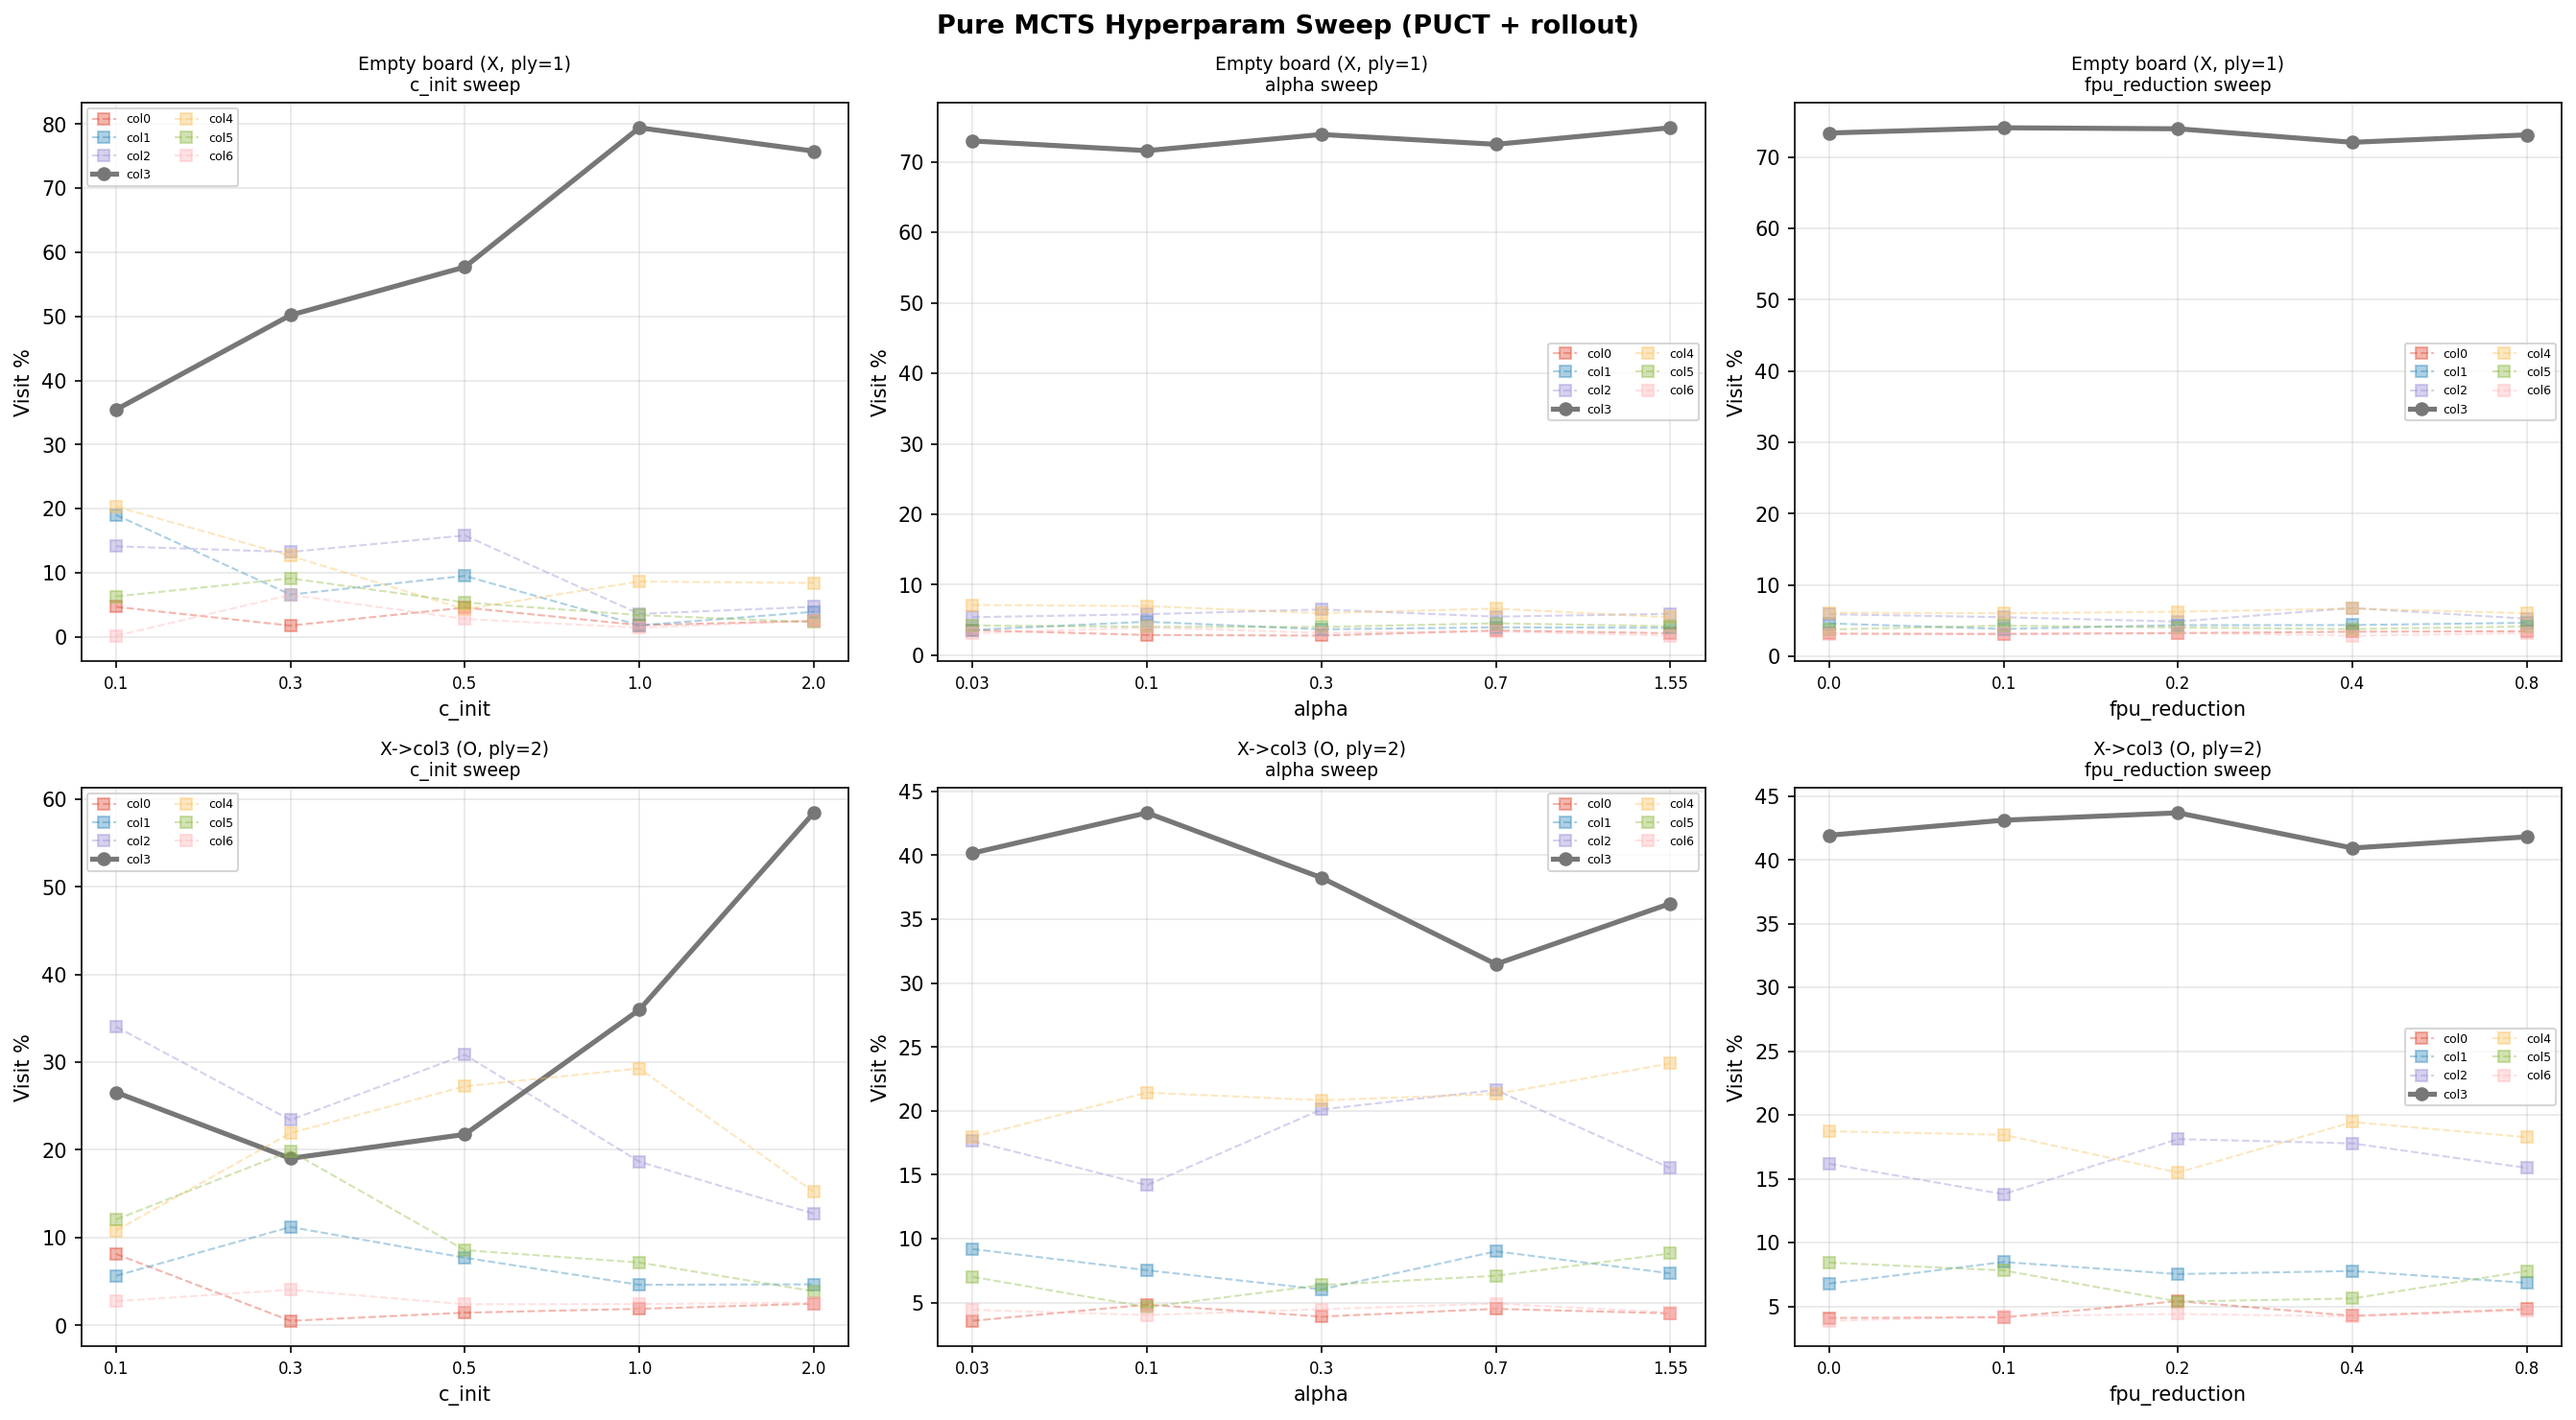
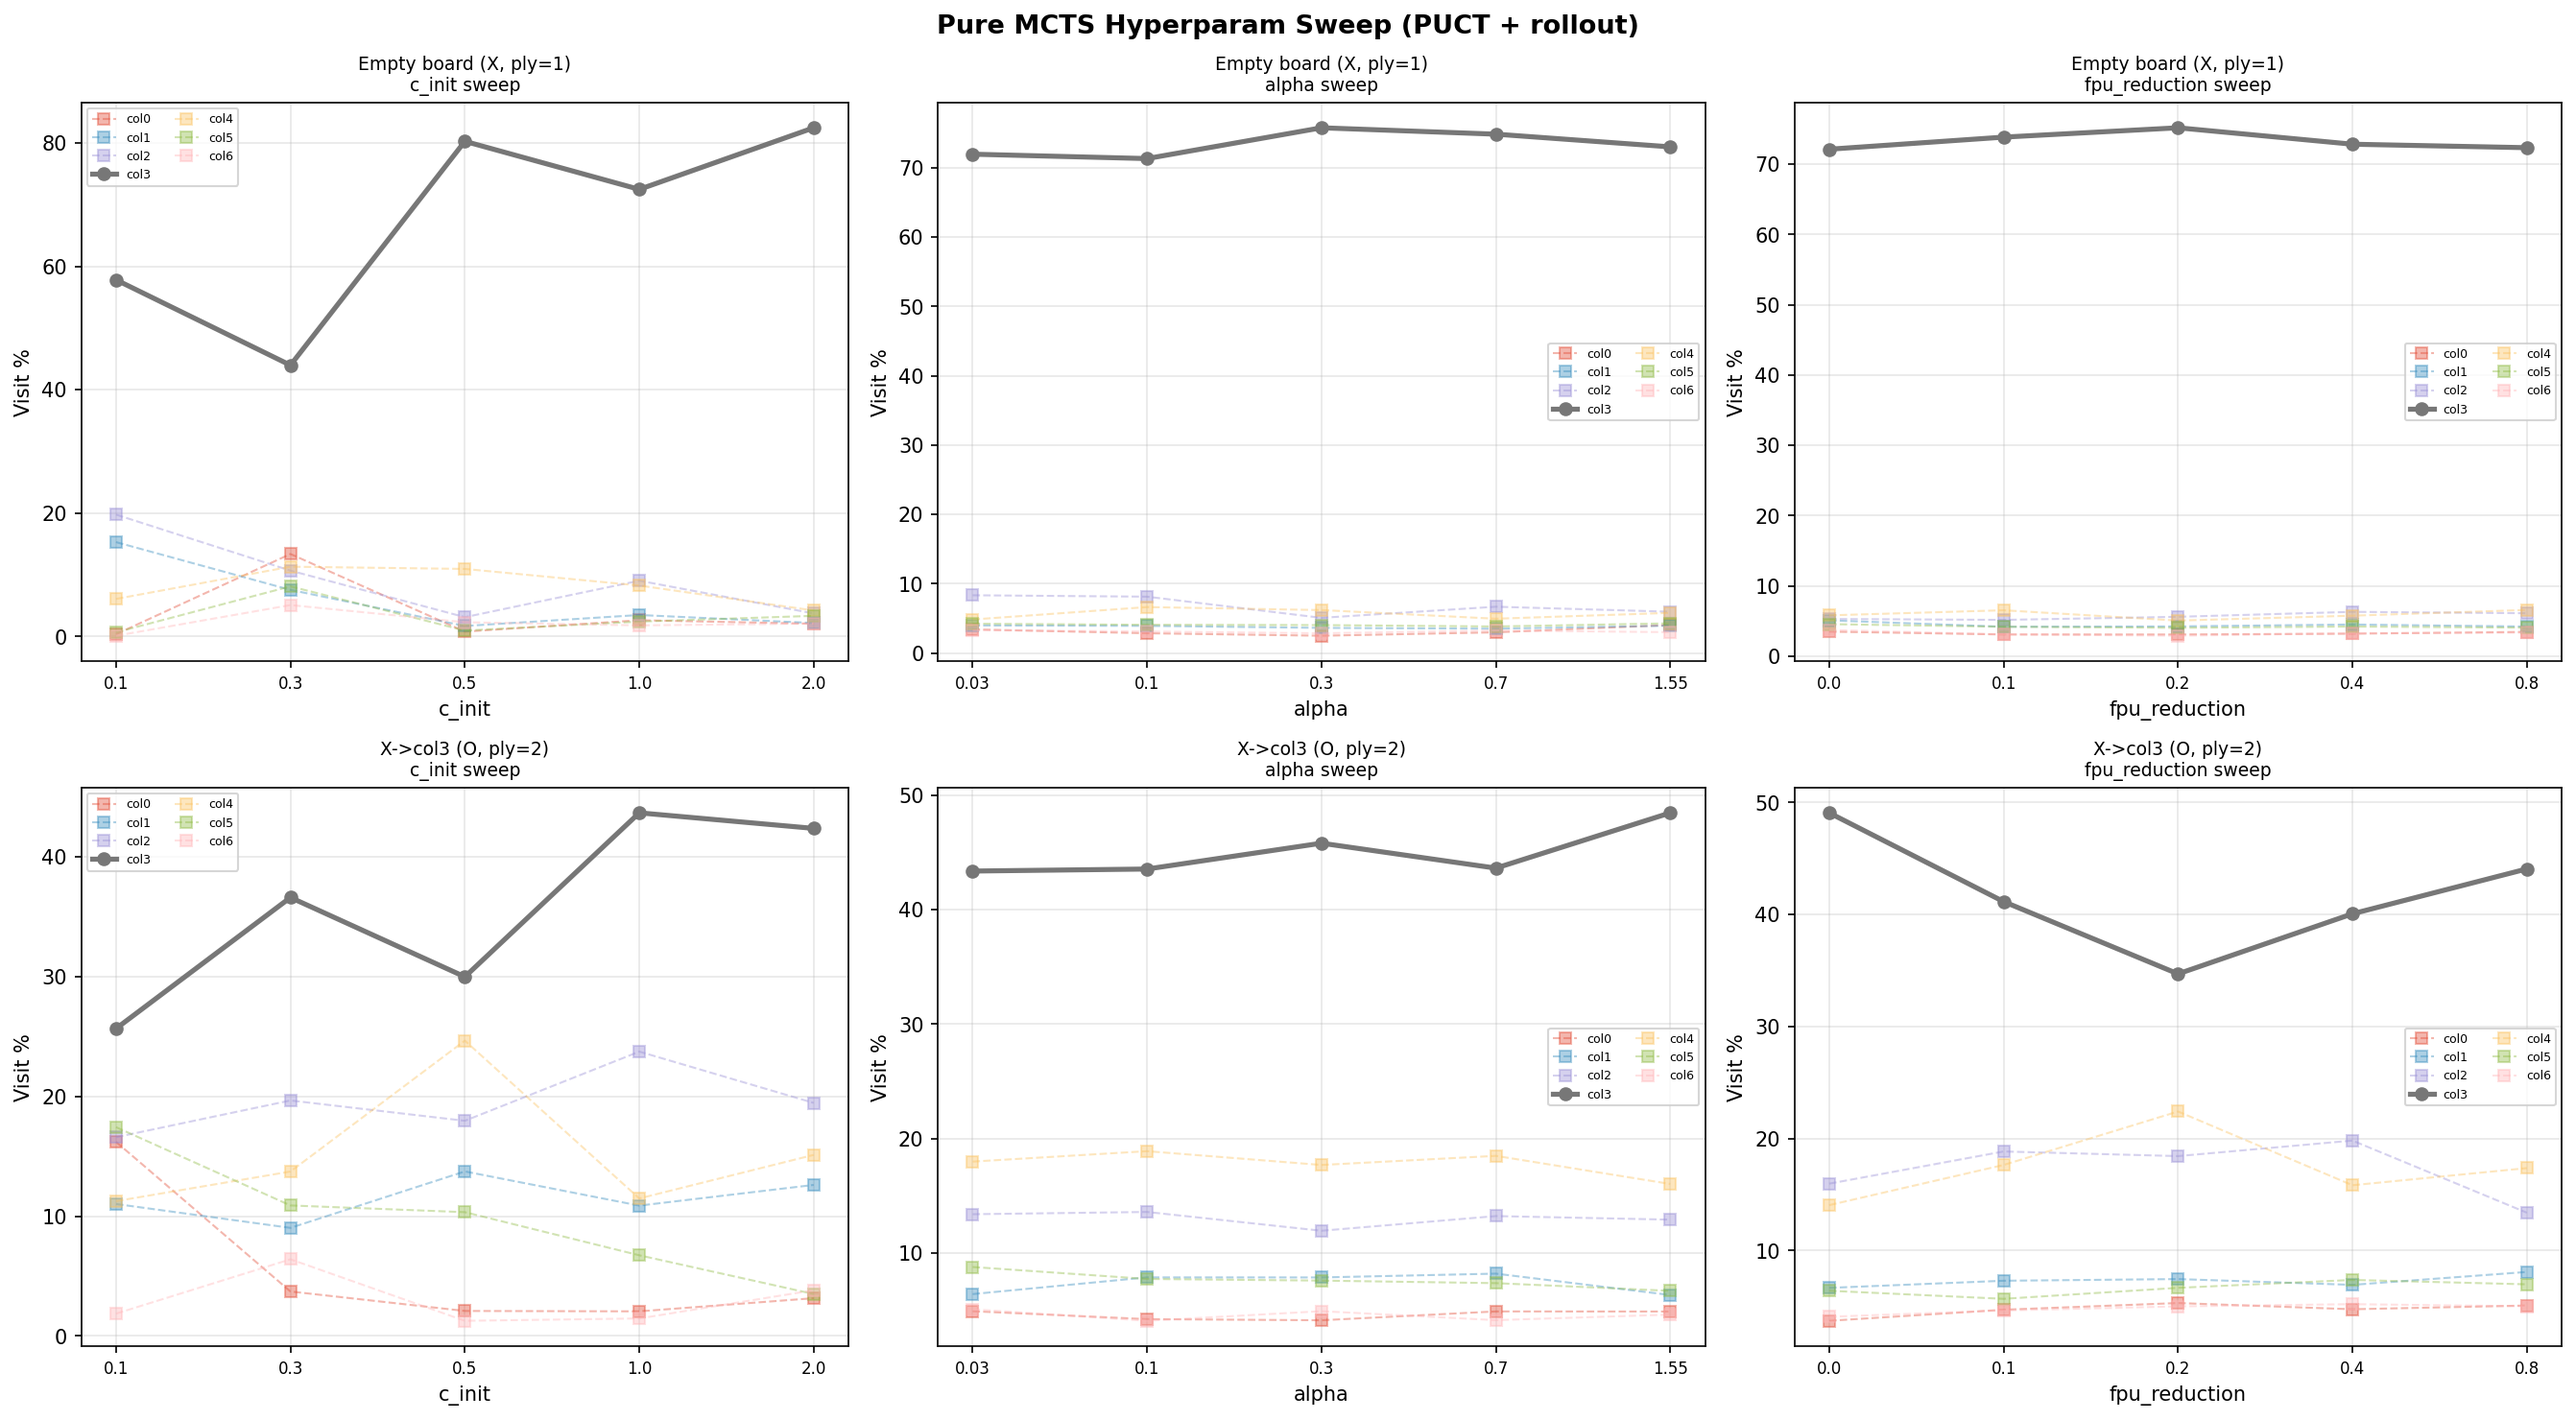
Update

diff --git a/docs/o-policy-convergence-diagnosis.md b/docs/o-policy-convergence-diagnosis.md
@@ -109,6 +109,103 @@ Dirichlet noise 实际上**帮助了** col3（从 24.1% 提升到 25.9%），因
 - n=10,000 时 col4 反而排第一
 - 与 X 的 col3 信号（33.8%，遥遥领先）形成鲜明对比
 
+### 6. 纯 MCTS c_init 扫描（UCT + random rollout）
+
+探索常数 c_init 对纯 MCTS 能否识别 col3 的影响。c_init 越小 = 越偏重 exploitation。
+
+#### X 空棋盘 — col3 visit%
+
+| c_init | n=1,000 | n=10,000 | n=50,000 |
+|---|---|---|---|
+| **1** | **52.4%** | **42.6%** | **55.6%** |
+| 2 | 22.0% | 39.1% | 45.3% |
+| 4 | 16.5% | 29.6% | 34.0% |
+| 8 | 15.4% | 21.4% | 26.2% |
+| 16 | 15.7% | 17.9% | 20.9% |
+
+X 的 col3 信号强，所有 c_init 都能识别，但低 c_init 收敛更快。
+
+#### O 局面 — col3 visit%
+
+| c_init | n=1,000 | n=10,000 | n=50,000 |
+|---|---|---|---|
+| **1** | 17.1% | **29.8%** | **42.9%** |
+| 2 | 15.3% | 20.3% | 25.5% |
+| 4 | 14.6% | 16.2% | 22.2% |
+| 8 | 14.8% | 16.1% | 17.8% |
+| 16 | 14.2% | 15.7% | 16.9% |
+
+**关键发现**：
+- **c_init=1, n=50,000 时 O-col3 达到 42.9%**，遥遥领先 col2=13.7%
+- 低 c_init（少探索、重 exploitation）反而更快收敛到正确答案——弱信号需要深度搜索来放大
+- 高 c_init（c=16）使信号几乎消失（16.9%，接近均匀 14.3%）
+- 纯 MCTS 在 c=1 + n=50,000 可以明确识别 O-col3，完全独立于 NN
+
+### 7. AZ MCTS 超参扫描（带 NN，n=100）
+
+固定其他参数为生产值，单独扫描 c_init / alpha / fpu_reduction，观察对 O 局面 col3 visit% 的影响。
+
+#### c_init sweep（alpha=0.3, fpu=0.2）
+
+| c_init | col3 visit% | -Q |
+|---|---|---|
+| 0.1 | **40.4%** | -0.794 |
+| 0.3 | 30.1% | -0.716 |
+| 0.5 | 28.8% | -0.699 |
+| 1.0 (生产) | 26.1% | -0.678 |
+| 2.0 | 26.7% | -0.681 |
+
+c_init=0.1 时 col3 达到 40.4%，但完全是靠 prior（26.2%）被放大，**Q 值方向仍然是错的**（-Q 为负）。
+
+#### alpha sweep（c_init=1.0, fpu=0.2）
+
+| alpha | col3 visit% |
+|---|---|
+| 0.03 | 28.0% |
+| 0.1 | 26.5% |
+| 0.3 (生产) | 27.1% |
+| 0.7 | 27.8% |
+| 1.55 | 26.7% |
+
+**alpha 几乎没有影响**，col3 在 26-28% 之间浮动。Dirichlet noise 的强度不是瓶颈。
+
+#### fpu_reduction sweep（c_init=1.0, alpha=0.3）
+
+| fpu | col3 visit% |
+|---|---|
+| 0.0 | 26.6% |
+| 0.1 | 26.1% |
+| 0.2 (生产) | 27.3% |
+| 0.4 | 29.3% |
+| 0.8 | 27.6% |
+
+**FPU 也几乎没有影响**，col3 在 26-29% 之间浮动。
+
+#### 超参扫描小结
+
+- **c_init 是唯一有显著影响的参数**，但它只是改变 prior 与 Q 的相对权重，不修正 Q 本身
+- **alpha 和 FPU 无显著影响**
+- **所有配置下 Q 值方向始终是错的**（O-col3 的 -Q 始终为负）
+
+### 8. 纯 MCTS 超参扫描（PUCT + uniform prior + random rollout）
+
+使用 MCTS_AZ 框架但用 random rollout 代替 NN，测试 PUCT 选择 + Dirichlet noise + FPU 在无 NN 偏差时的表现。
+
+（部分结果，n=5000, 20 runs）
+
+#### X 空棋盘
+
+| 参数 | 值 | col3 visit% |
+|---|---|---|
+| c_init=0.1 | (alpha=None, fpu=0) | 35.4% |
+| c_init=0.5 | | 57.7% |
+| c_init=1.0 | | **79.4%** |
+| c_init=2.0 | | 75.8% |
+| alpha=0.03 | (c_init=4, fpu=0) | 73.0% |
+| alpha=1.55 | | 74.8% |
+
+X 的 col3 在所有配置下都非常强势，alpha 对 X 几乎没有影响。
+
 ## 根因分析
 
 ### 自强化 Bootstrap 陷阱
@@ -132,6 +229,15 @@ NN 进一步强化 "O-col3 差" 的评估
 1. **X 的 col3 信号强**：纯 MCTS n=5000 就能看出 col3 遥遥领先（23.2%），AlphaZero 在 n=100 足够学到
 2. **O 的 col3 信号极弱**：纯 MCTS n=50,000 才勉强分出（19.5% vs 19.0%），n=100 根本看不到
 3. **NN 放大了错误方向**：本来只是"分不出"，但 NN 学到了相反方向，然后 MCTS 越搜索越偏
+
+### 为什么调超参解决不了？
+
+**完整的超参扫描**（Section 6-8）证明：
+
+- **纯 MCTS 的 c_init**：低 c_init（更多 exploitation）让纯 MCTS 更快收敛到 col3，但 O 的信号仍需 n=50,000 才清晰。AZ MCTS 中 c_init 只改变 prior 与 Q 的权重，不修正 Q 方向
+- **Dirichlet alpha**：从 0.03 到 1.55，col3 visit% 在 26-28% 之间浮动，几乎无影响
+- **FPU reduction**：从 0.0 到 0.8，col3 visit% 在 26-29% 之间浮动，几乎无影响
+- **核心矛盾**：这些参数都只影响**搜索过程中的访问分布**，但无法修正 NN value head 学到的**错误 Q 值方向**。即使 col3 被访问更多次，NN 仍然给出负面评价，Q 值仍然指向错误方向
 
 ### 为什么 lambda_s 解决不了？
 
@@ -175,6 +281,9 @@ lambda_s 公式：`value = (1-λ) × value_base - λ × sign(value_base) × step
 | `noise_ablation.png` | Dirichlet noise 消融对比 |
 | `multi_ply.png` | 多步深入分析（ply 1-4） |
 | `pure_mcts_comparison.png` | AlphaZero MCTS vs 纯 MCTS 对比 |
+| `pure_mcts_c_sweep.png` | 纯 MCTS c_init × n_playout 热力图 |
+| `az_hp_sweep.png` | AZ MCTS 超参扫描（c_init / alpha / fpu） |
+| `pure_mcts_hp_sweep.png` | 纯 MCTS 超参扫描（PUCT + rollout） |
 
 ## 复现
 
@@ -185,9 +294,13 @@ python tools/diagnose_mcts.py
 # 快速模式（约 2 分钟）
 python tools/diagnose_mcts.py --quick
 
-# 仅纯 MCTS 对比
+# 仅纯 MCTS c_init 扫描
 python tools/diagnose_mcts.py --pure-only
 
-# 纯 MCTS 快速模式
+# 仅纯 MCTS 超参扫描（PUCT + rollout，c_init / alpha / fpu）
+python tools/diagnose_mcts.py --hp-only
+
+# 快速模式
 python tools/diagnose_mcts.py --pure-only --quick
+python tools/diagnose_mcts.py --hp-only --quick
 ```
